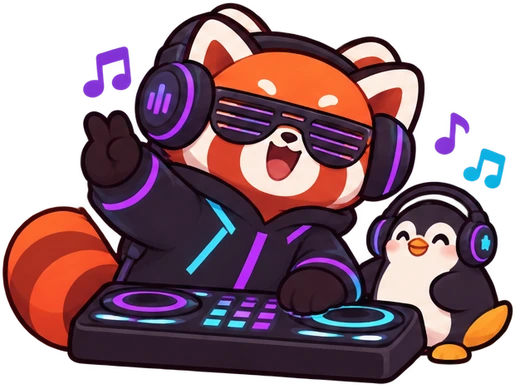
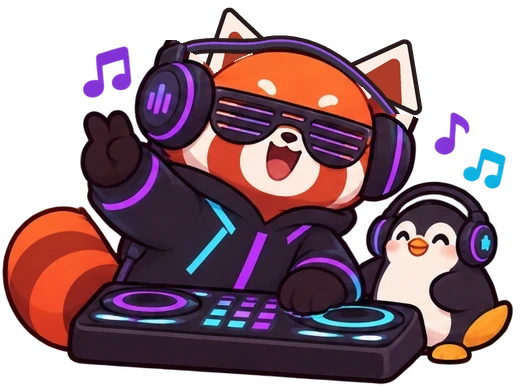
DJ: orejas y diadema arregladas

Changed region(s): [[0.3077, 0.0, 0.8308, 0.3085]]

diff --git a/tools/build_skin_layers.py b/tools/build_skin_layers.py
@@ -1,10 +1,10 @@
 # Genera las capas animadas (public/skins/<código>/) y las siluetas (public/skins/sil/) de cada skin.
-# Uso: python3 tools/build_skin_layers.py  (necesita Pillow, numpy y scipy). Los polígonos de orejas/cola/corona se ajustan a mano.
+# Necesita Pillow, numpy y scipy. Los polígonos de orejas/cola/corona se ajustan a mano (rutas de /tmp: adaptar).
 from PIL import Image, ImageDraw
 import numpy as np, json, os, secrets, shutil
 from scipy import ndimage as ndi
-SRC='public/skins'; OUT='public/skins'
-meta={m['file']:m for m in json.load(open('tools/skins_meta.json'))}
+SRC='/tmp/skins'; OUT='/home/claude/App-Habitos-Duolingo/public/skins'
+meta={m['file']:m for m in json.load(open(SRC+'/meta.json'))}
 # parts: poly (global px), pivot, anim, z ('back'|'front'), dir
 SPECS={
  'da84f6836f.webp':dict(body='breathe',parts=[
@@ -17,7 +17,8 @@ SPECS={
    dict(poly=[(190,112),(198,80),(210,45),(230,15),(250,5),(265,8),(290,30),(312,52),(270,70),(230,90),(205,108)],pivot=(255,88),anim='ear',z='front',dir=1)],
    deco={2:'bubble',3:'bubble',4:'bubble',5:'bubble',6:'bubble',7:'bubble',8:'fish'}),
  'e1969c542c.webp':dict(body='bounce',parts=[],deco={2:'pulse',3:'pulse',4:'pulse',5:'pulse'}),
- 'ee4f8edd93.webp':dict(body='beat',parts=[
+ 'ee4f8edd93.webp':dict(body='beat',body_src='/tmp/djfix/body_noears.png',extra_back=[
+   ('/tmp/djfix/ear_l.png',(244,80),1,0.0),('/tmp/djfix/ear_r.png',(372,98),-1,0.8)],parts=[
    dict(poly=[(0,195),(80,195),(90,210),(105,228),(118,245),(110,262),(100,282),(80,305),(70,330),(68,360),(0,360)],pivot=(100,270),anim='tail',z='back',dir=1)],
    deco={2:'note',3:'note',4:'note'}),
  'c688da4ae1.webp':dict(body='breathe',parts=[
@@ -32,10 +33,12 @@ def crop_layer(arr,mask,pad=2):
     y0,y1=max(0,ys.min()-pad),min(arr.shape[0],ys.max()+pad+1); x0,x1=max(0,xs.min()-pad),min(arr.shape[1],xs.max()+pad+1)
     out=arr.copy(); out[~mask,3]=0
     return Image.fromarray(out[y0:y1,x0:x1]),(x0,y0,x1-x0,y1-y0)
+SIL={'da84f6836f':'c96c42e985','fb94fd82ab':'a14523f246','e1969c542c':'aa668b2cc0','ee4f8edd93':'cfa17371c9','c688da4ae1':'07416e3023'}
 summary={}
 for f,spec in SPECS.items():
     code=f[:-5]; m=meta[f]; W,H=m['w'],m['h']
-    arr=np.array(Image.open(f'{SRC}/{f}').convert('RGBA')); body=arr.copy()
+    arr=np.array(Image.open(f'{SRC}/{f}').convert('RGBA'))
+    body=np.array(Image.open(spec['body_src']).convert('RGBA')) if spec.get('body_src') else arr.copy()
     al=arr[...,3]>30
     lab,n=ndi.label(ndi.binary_dilation(al,iterations=2))
     d=os.path.join(OUT,code); shutil.rmtree(d,ignore_errors=True); os.makedirs(d)
@@ -68,6 +71,9 @@ for f,spec in SPECS.items():
         body[pm,3]=0
         (backs if p['z']=='back' else fronts).append((img,box,p))
     for img,box,p in backs: add(img,box,p['anim'],'back',p['pivot'],p.get('dir',1),p.get('delay',0))
+    for path,pivot,dr,dl in spec.get('extra_back',[]):
+        e=np.array(Image.open(path).convert('RGBA')); img,box=crop_layer(e,e[...,3]>0)
+        add(img,box,'ear','back',pivot,dr,dl)
     bm=body[...,3]>0; bimg,bbox=crop_layer(body,bm,0); add(bimg,bbox,'none','body')
     for img,box,p in fronts: add(img,box,p['anim'],'front',p['pivot'],p.get('dir',1),p.get('delay',0))
     for j,(img,box,anim,ci) in enumerate(decos): add(img,box,anim,'deco',None,1 if j%2==0 else -1,round(j*0.37%1.6,2))
@@ -77,7 +83,7 @@ for f,spec in SPECS.items():
     # silhouette: white shape (the app darkens it with CSS)
     sil=np.zeros_like(arr); sil[...,:3]=255; sil[...,3]=arr[...,3]
     s=Image.fromarray(sil); s.thumbnail((260,260),Image.LANCZOS)
-    tok=secrets.token_hex(5); os.makedirs(os.path.join(OUT,'sil'),exist_ok=True)
+    tok=SIL.get(code) or secrets.token_hex(5); os.makedirs(os.path.join(OUT,'sil'),exist_ok=True)
     s.save(os.path.join(OUT,'sil',tok+'.webp'),'WEBP',quality=85,method=6)
     summary[code]=(len(layers),'sil/'+tok+'.webp')
 json.dump(summary,open('summary.json','w')); print(summary)

diff --git a/tools/fix_dj_ears.py b/tools/fix_dj_ears.py
@@ -1,0 +1,54 @@
+from PIL import Image, ImageDraw
+import numpy as np
+from scipy import ndimage as ndi
+im=Image.open('orig.webp').convert('RGBA'); W,H=im.size; S=4
+a=np.array(im)
+OUT=np.array([40,26,28,255]); WHITE=np.array([252,238,228,255]); RED=np.array([176,60,40,255])
+C=lambda x: 0.0058*(x-280)**2+52-4
+yy,xx=np.mgrid[0:H,0:W]
+cupL=((xx-168)**2+(yy-100)**2)<53**2
+cupR=((xx-398)**2+(yy-155)**2)<42**2
+bracket=Image.new('L',(W,H),0); ImageDraw.Draw(bracket).polygon([(140,62),(146,46),(160,40),(176,40),(186,46),(188,62)],fill=255); bracket=np.array(bracket)>0
+erase=(((xx>=172)&(xx<=430)&(yy<C(xx)))|((xx>=140)&(xx<172)&(yy<62)))&~cupL&~cupR&~bracket
+rem=a.copy(); rem[erase,3]=0
+
+def rounded(poly,R):
+    m=Image.new('L',(W*S,H*S),0); ImageDraw.Draw(m).polygon([(x*S,y*S) for x,y in poly],fill=255); m=np.array(m)>0
+    core=ndi.distance_transform_edt(m)>R*S
+    return ndi.distance_transform_edt(~core)<=R*S
+def ear(tip,bl,br):
+    outer=rounded([tip,bl,br],7)
+    white=ndi.distance_transform_edt(outer)>4.5*S
+    bx=(bl[0]+br[0])/2; by=(bl[1]+br[1])/2
+    lerp=lambda p,q,t:(p[0]+(q[0]-p[0])*t,p[1]+(q[1]-p[1])*t)
+    t2=lerp(tip,(bx,by),0.30); b2=lerp(bl,br,0.22); b3=lerp(br,bl,0.22)
+    b2=lerp(b2,tip,-0.05); b3=lerp(b3,tip,-0.05)
+    inner=rounded([t2,b2,b3],6)&white
+    img=np.zeros((H*S,W*S,4),np.uint8)
+    img[outer]=OUT; img[white]=WHITE; img[inner]=RED
+    return Image.fromarray(img).resize((W,H),Image.LANCZOS)
+canvas=Image.new('RGBA',(W,H),(0,0,0,0))
+earL=ear((226,2),(196,92),(292,64)); earR=ear((410,36),(326,74),(424,120))
+earL.save('ear_l.png'); earR.save('ear_r.png')
+canvas.alpha_composite(earL); canvas.alpha_composite(earR)
+# band over the head (cups cover both ends)
+band=Image.new('RGBA',(W*S,H*S),(0,0,0,0)); d=ImageDraw.Draw(band)
+ctrl=[(158,74),(178,54),(205,46)]+[(x,C(x)-5) for x in range(262,408,6)]
+from scipy.interpolate import CubicSpline
+xs=np.array([p[0] for p in ctrl],float); ys=np.array([p[1] for p in ctrl],float)
+cs=CubicSpline(xs,ys)
+pts=[(x*S,float(cs(x))*S) for x in np.arange(158,406,2)]
+def strip(points,width,offset=0.0):
+    P=np.array(points,float); T=np.gradient(P,axis=0); T/=np.linalg.norm(T,axis=1,keepdims=True)
+    N=np.stack([-T[:,1],T[:,0]],1)
+    top=P+N*(offset+width/2); bot=P+N*(offset-width/2)
+    return [tuple(p) for p in top]+[tuple(p) for p in bot[::-1]]
+d.polygon(strip(pts,15*S),fill=(40,26,28,255))
+d.polygon(strip(pts,7*S),fill=(62,52,74,255))
+d.polygon(strip(pts,2.2*S,-2.6*S),fill=(150,80,230,255))
+canvas.alpha_composite(band.resize((W,H),Image.LANCZOS))
+canvas.alpha_composite(Image.fromarray(rem))
+noears=Image.new('RGBA',(W,H),(0,0,0,0)); noears.alpha_composite(band.resize((W,H),Image.LANCZOS)); noears.alpha_composite(Image.fromarray(rem)); noears.save('body_noears.png')
+canvas.save('fixed.webp','WEBP',quality=92,method=6)
+c=Image.new('RGBA',(W,H),(60,50,90,255)); c.alpha_composite(canvas); c.crop((120,0,460,200)).resize((680,400)).save('preview.png')
+c2=Image.new('RGBA',(W,H),(255,250,240,255)); c2.alpha_composite(canvas); c2.save('full_light.png')
